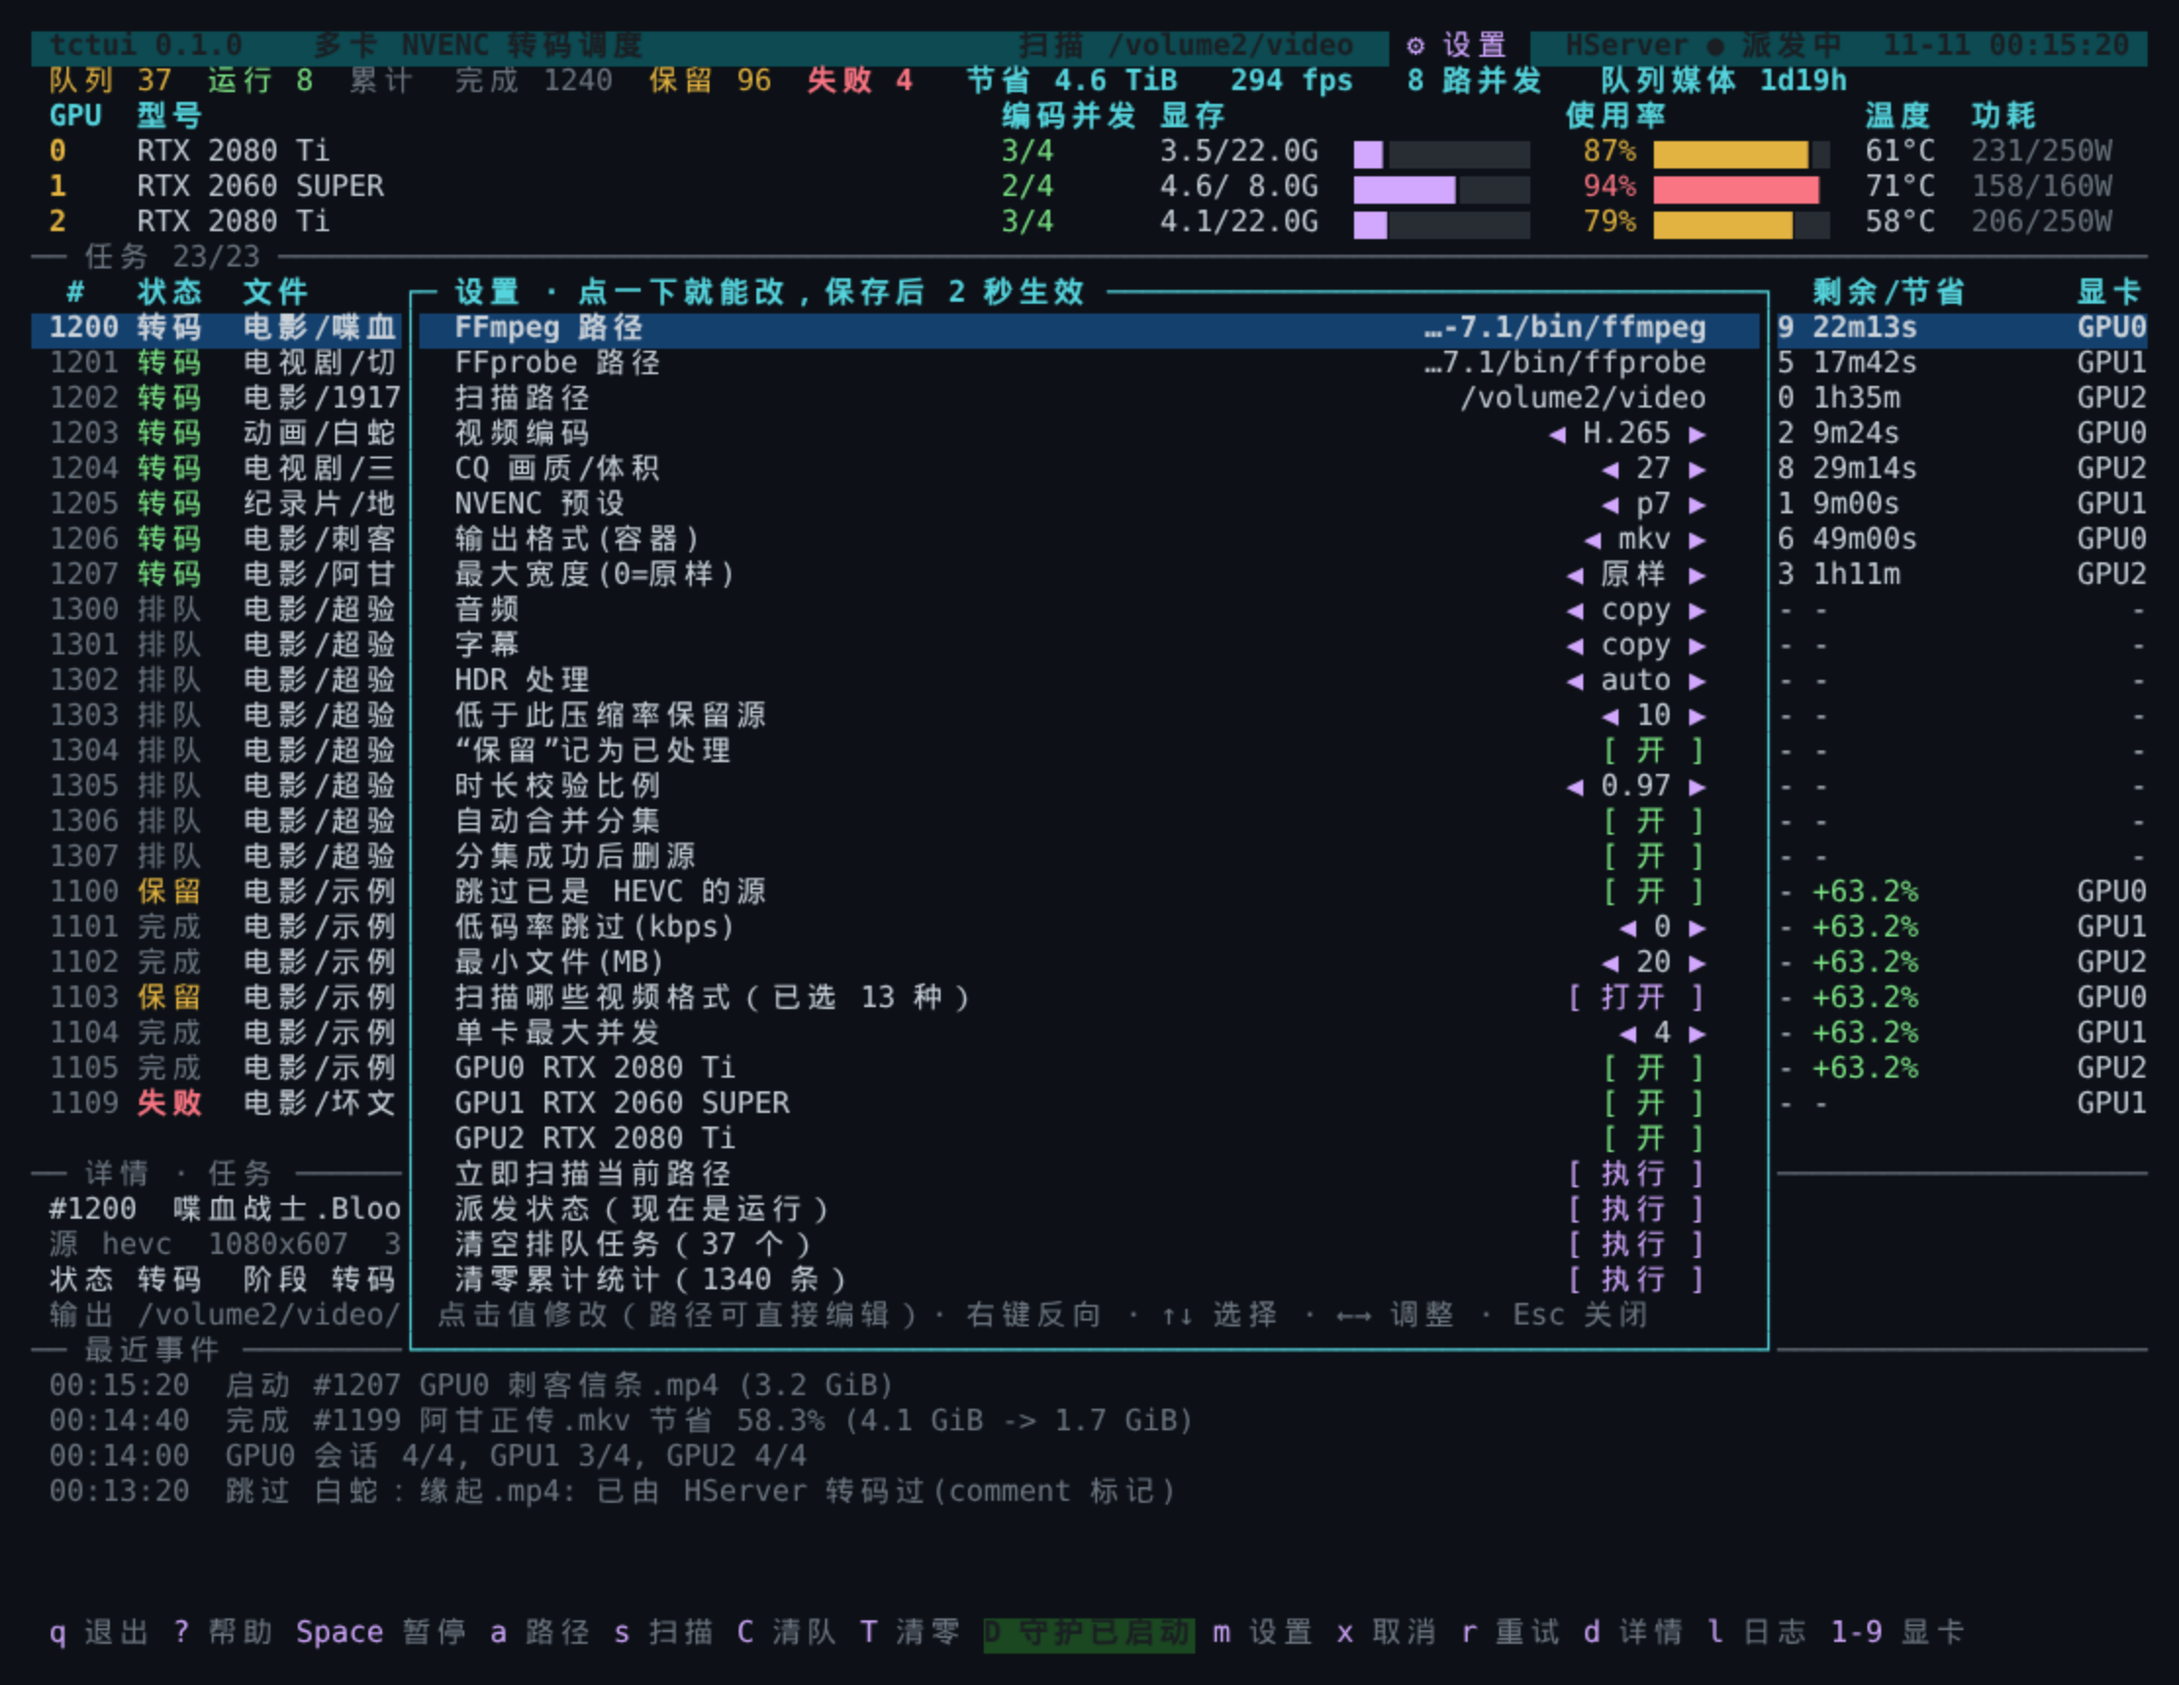
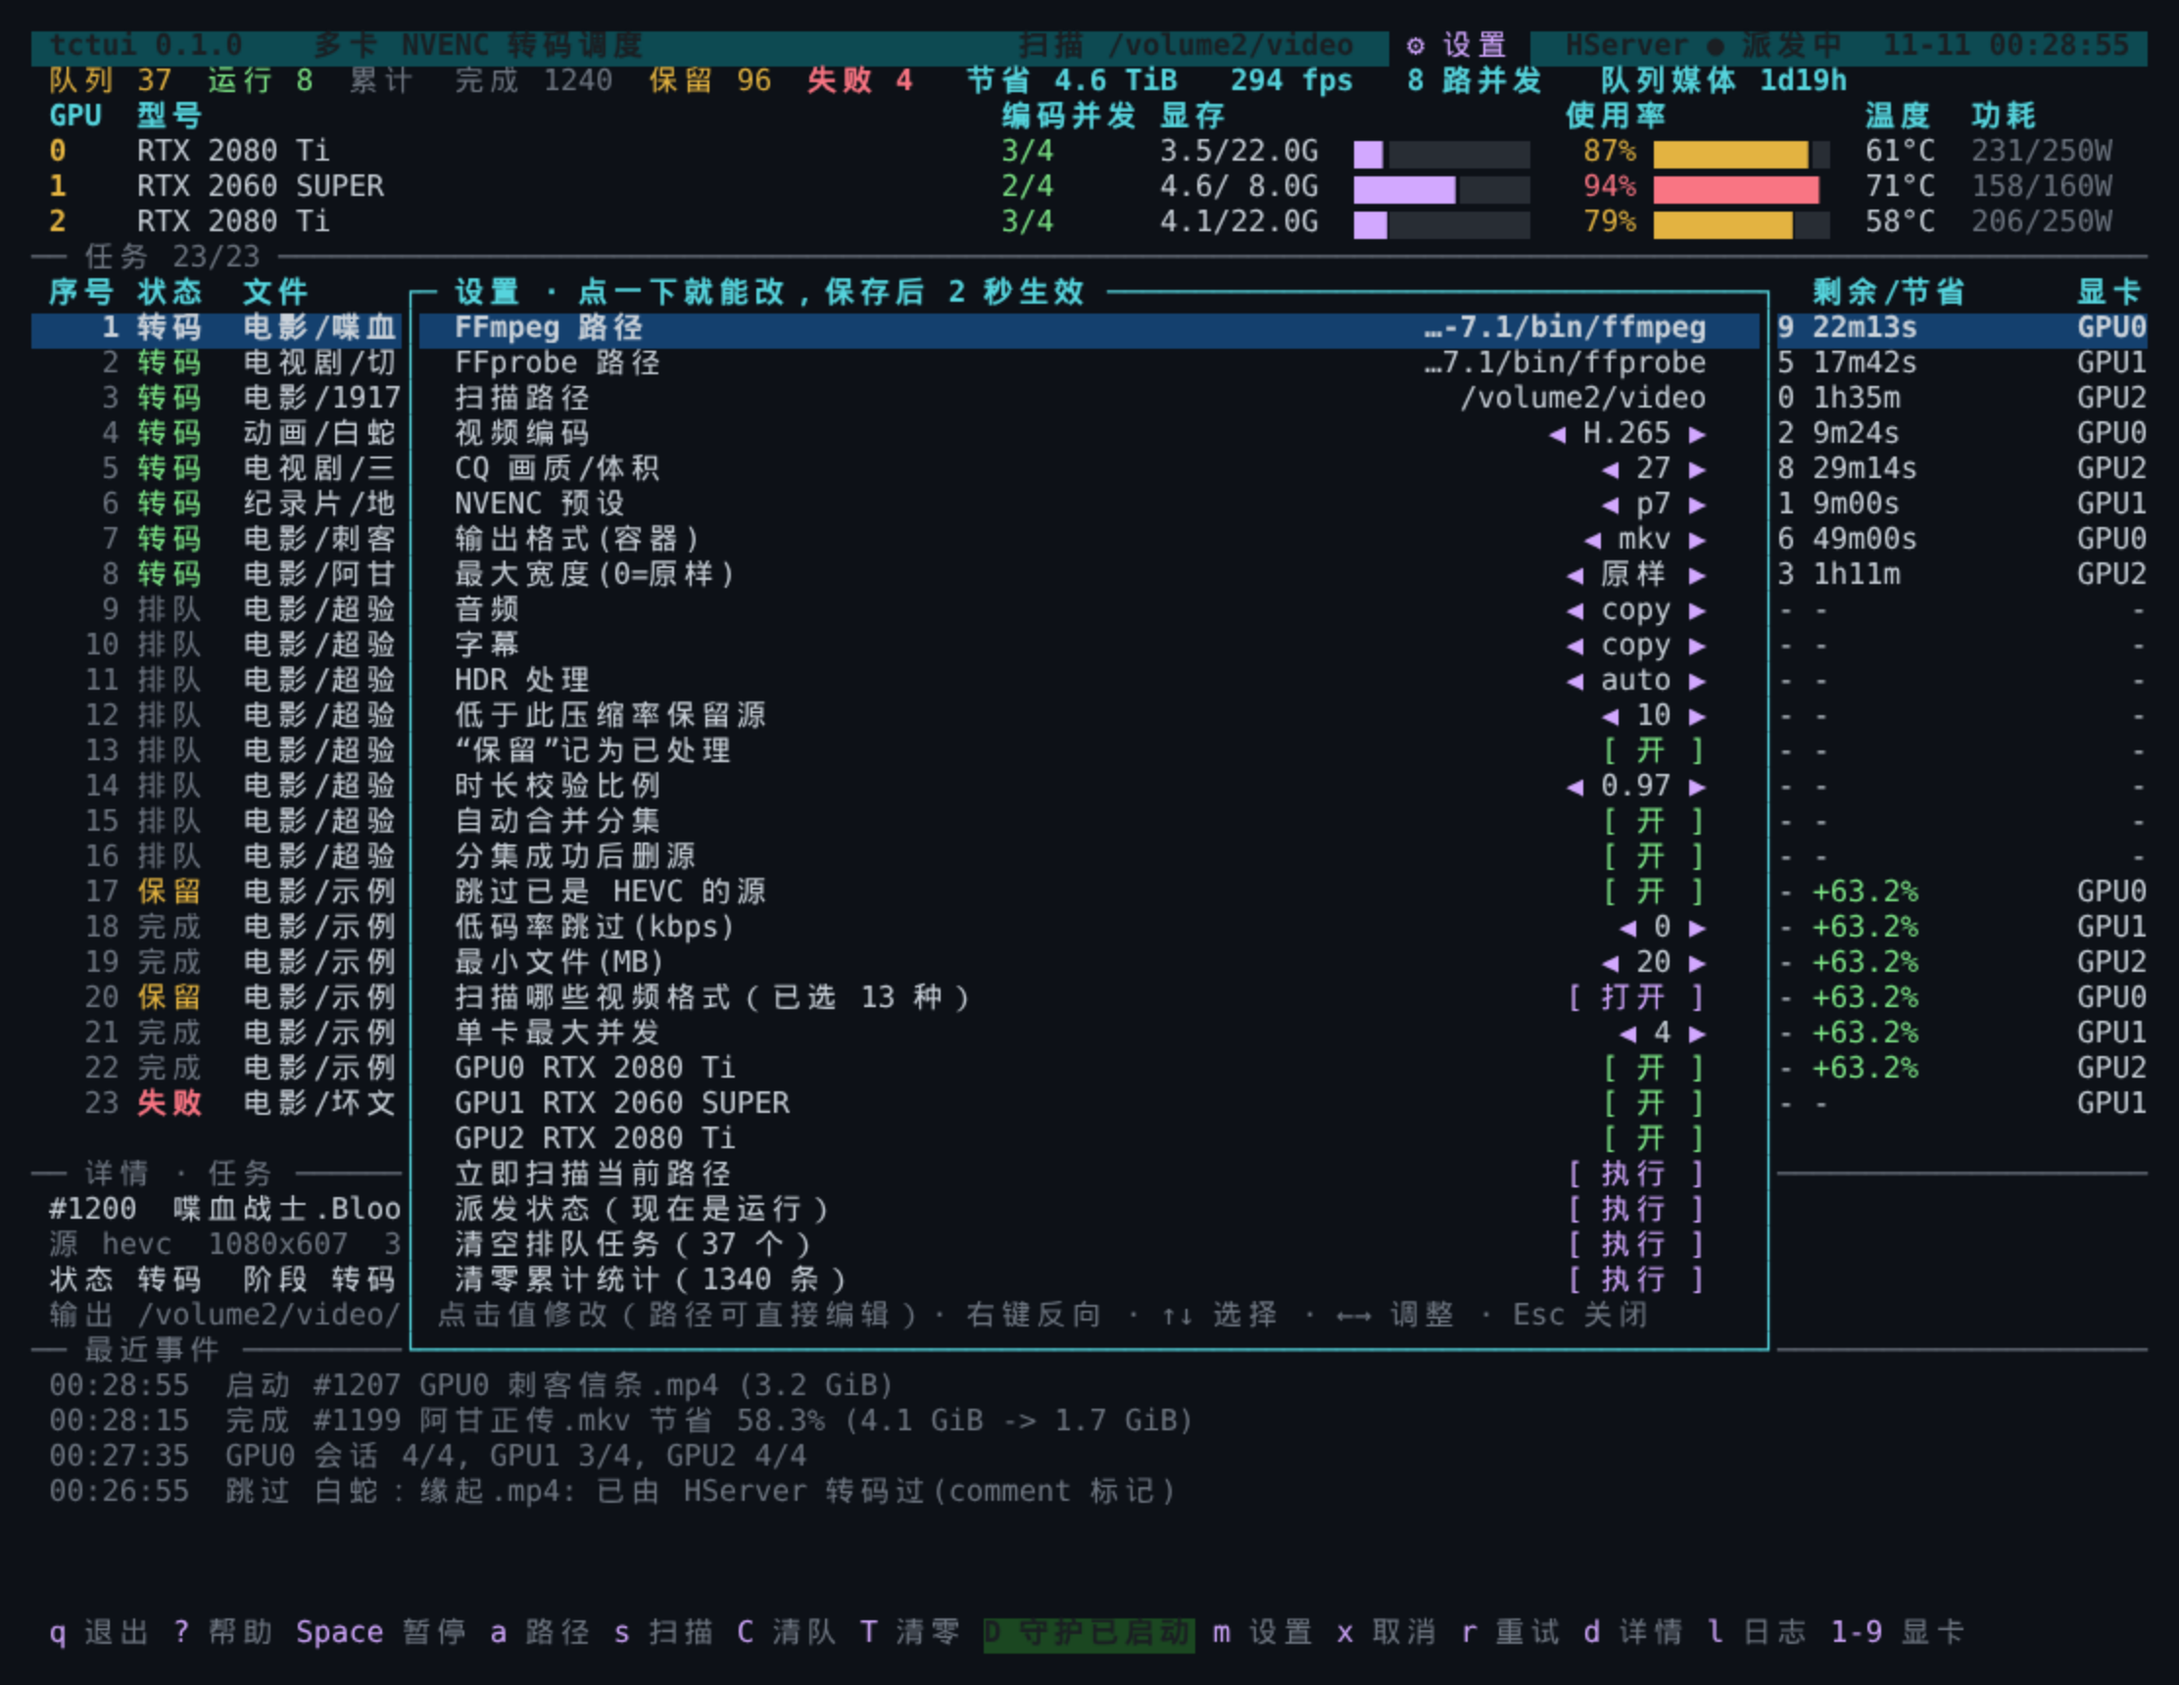
Number job rows by list position instead of database id

Changed region(s): [[0.0, 0.1541, 0.0621, 0.6779], [0.031, 0.832, 0.0931, 0.8936]]

diff --git a/lib/tctui/ui.py b/lib/tctui/ui.py
@@ -843,7 +843,7 @@ class App:
         c_eta = c_fps + 5
         scr.hline(y, 0, w, "─", S["dim"], title="任务 %d/%d" % (len(jobs), len(v.jobs)))
         y += 1
-        head = util.pad_disp(" #", c_st - c_id)
+        head = util.pad_disp("序号", c_st - c_id)
         head += util.pad_disp("状态", c_st and 6)
         scr.put(y, c_id, head, S["head"])
         scr.put(y, c_path, util.pad_disp("文件", path_w), S["head"])
@@ -876,7 +876,7 @@ class App:
             is_sel = (i == sel)
             base = S["sel"] if is_sel else S["norm"]
             scr.fill(y, 0, w, " ", base)
-            scr.put(y, c_id, str(j["id"]), S["sel"] if is_sel else S["dim"])
+            scr.put(y, c_id, "%4d" % (i + 1), S["sel"] if is_sel else S["dim"])
             scr.put(y, c_st, util.pad_disp(self._job_stage(j), 6), S["sel"] if is_sel else STATUS_STYLE.get(st, S["norm"]))
             src = j.get("src") or ""
             name = self._pretty_path(src)
